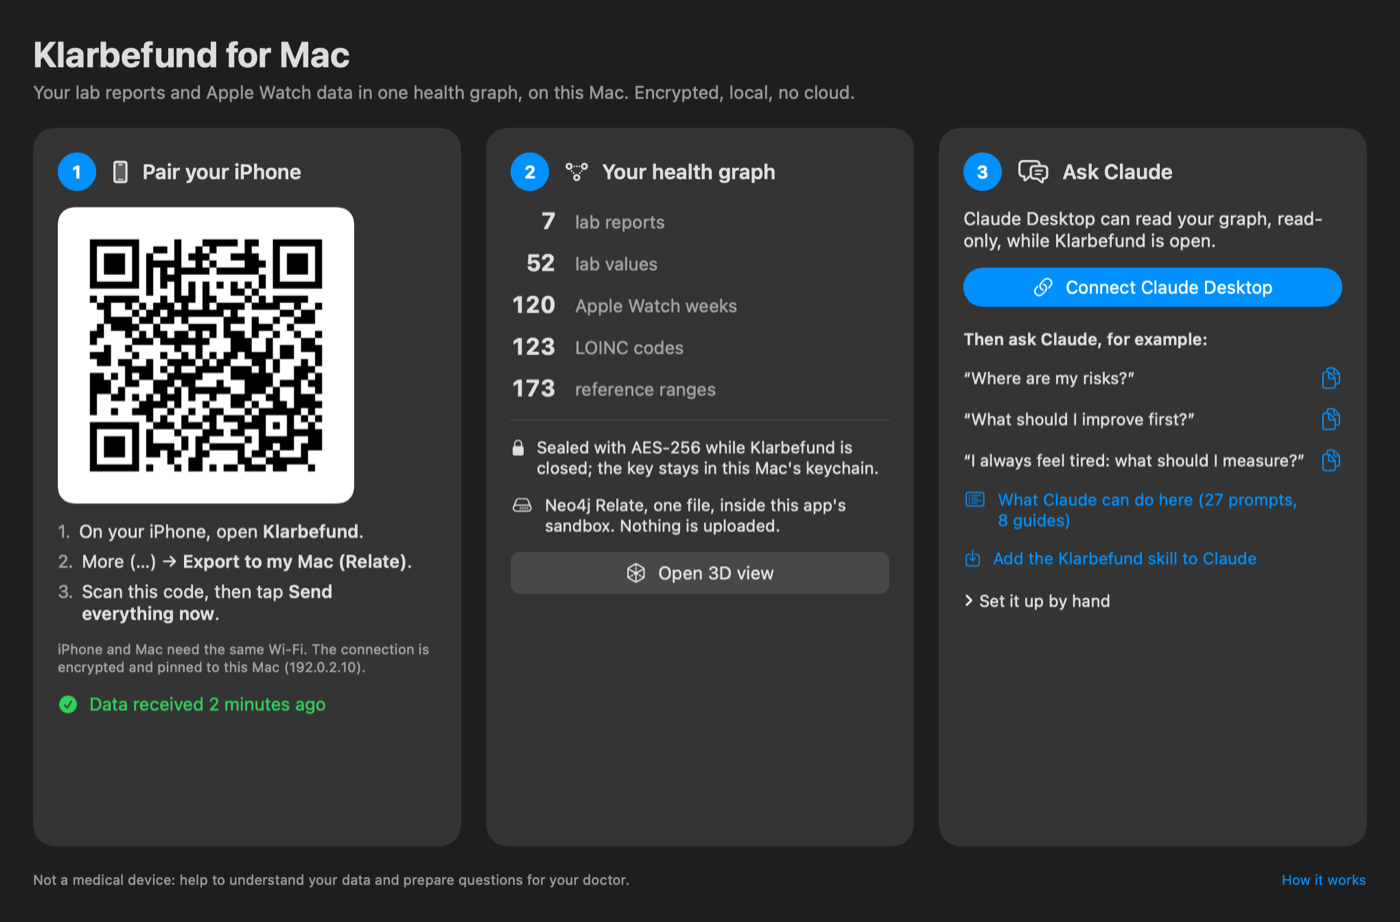
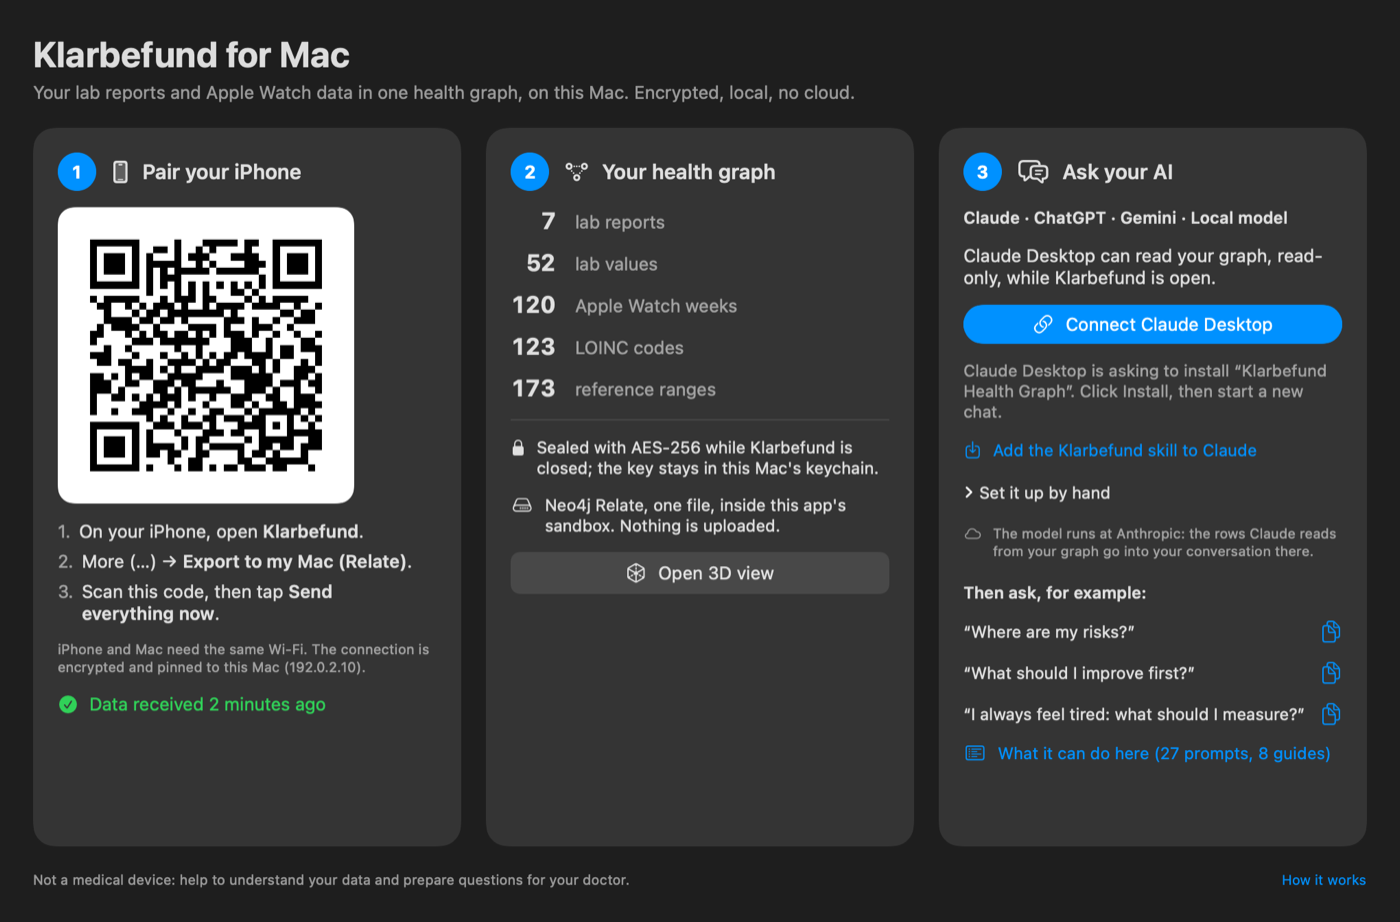
feat(mac): build 14, ask your AI: Claude, ChatGPT, Gemini or a local model
Step 3 is now "Ask your AI" with a choice of four. Each starts the same
read-only helper inside the app; the setup shows the helper's path filled
in, with a copy button:

- Claude: the one-click extension, as before
- ChatGPT: the ChatGPT app for Mac and Codex CLI share ~/.codex/config.toml;
  Settings -> MCP servers -> Add server -> STDIO, or codex mcp add
- Gemini: gemini mcp add -s user, started in a trusted folder (checked with
  Gemini CLI 0.66.0: Connected)
- Local model: Add to LM Studio (lmstudio://add_mcp, the server entry as
  base64 JSON), and a note that Ollama needs an MCP client in front of it

Under each setup the app says where the rows the model reads go: the
maker's cloud for Claude, ChatGPT and Gemini, nowhere for a local model.
Step 3 scrolls; numbered steps wrap. --screenshot takes --ai <client>.
Docs: MAC.md step 6, the README's Mac row, the window screenshot.

diff --git a/apps/mac/Klarbefund/ContentView.swift b/apps/mac/Klarbefund/ContentView.swift
@@ -5,12 +5,19 @@ import SwiftUI
 /// controls, so small buttons and links are drawn as plain images and text then.
 @MainActor var renderingForDocs = false
 
-/// One window, three steps: pair the iPhone, see the graph, connect Claude.
+/// One window, three steps: pair the iPhone, see the graph, connect an AI (Claude, ChatGPT, Gemini or a local model).
 struct ContentView: View {
   @ObservedObject var model: AppModel
   @State private var showManual = false
   @State private var showCapabilities = false
   @State private var skillMessage: String?
+  @State private var client: AIClient
+
+  init(model: AppModel, client: AIClient = .claude) {
+    self.model = model
+    _client = State(initialValue: client)
+  }
+  @State private var localMessage: String?
   @Environment(\.openWindow) private var openWindow
 
   var body: some View {
@@ -23,7 +30,7 @@ struct ContentView: View {
       HStack(alignment: .top, spacing: 18) {
         Step(number: 1, title: "Pair your iPhone", symbol: "iphone.gen3") { pairing }
         Step(number: 2, title: "Your health graph", symbol: "point.3.connected.trianglepath.dotted") { graph }
-        Step(number: 3, title: "Ask Claude", symbol: "bubble.left.and.text.bubble.right") { claude }
+        Step(number: 3, title: "Ask your AI", symbol: "bubble.left.and.text.bubble.right") { ai }
       }
       footer
     }
@@ -100,6 +107,98 @@ struct ContentView: View {
   }
 
   // ── 3 ──
+  private var setup: AISetup { AISetup(helper: ClaudeConnect.helper.path) }
+
+  /// Step 3 scrolls: ChatGPT's and Gemini's setups are taller than Claude's one button. ImageRenderer
+  /// draws no scroll view, so the docs render lays the content out directly.
+  @ViewBuilder private var ai: some View {
+    if renderingForDocs {
+      aiContent
+    } else {
+      ScrollView(.vertical) {
+        VStack(alignment: .leading, spacing: 12) { aiContent }.frame(maxWidth: .infinity, alignment: .leading)
+      }
+    }
+  }
+
+  @ViewBuilder private var aiContent: some View {
+    if renderingForDocs {  // ImageRenderer draws no segmented control
+      Text(AIClient.allCases.map(\.title).joined(separator: " · ")).font(.callout.weight(.semibold))
+    } else {
+      Picker("AI", selection: $client) {
+        ForEach(AIClient.allCases) { Text($0.title).tag($0) }
+      }
+      .pickerStyle(.segmented).labelsHidden()
+    }
+    switch client {
+    case .claude: claude
+    case .chatgpt: chatgpt
+    case .gemini: gemini
+    case .local: local
+    }
+    Label(client.privacy, systemImage: client == .local ? "lock.laptopcomputer" : "cloud")
+      .font(.caption).foregroundStyle(.secondary).fixedSize(horizontal: false, vertical: true)
+    Text("Then ask, for example:").font(.callout.weight(.semibold)).padding(.top, 4)
+    ForEach(MCPCatalog.prompts.filter { $0.group == .risks }.prefix(3), id: \.name) { Ask($0.ask) }
+    let catalog = Label(
+      "What it can do here (\(MCPCatalog.prompts.count) prompts, \(MCPCatalog.guides.count) guides)",
+      systemImage: "list.bullet.rectangle")
+    if renderingForDocs {
+      catalog.font(.callout).foregroundStyle(Color.accentColor)
+    } else {
+      Button { showCapabilities = true } label: { catalog }
+        .buttonStyle(.link).font(.callout)
+        .sheet(isPresented: $showCapabilities) { MCPCapabilitiesView() }
+    }
+  }
+
+  @ViewBuilder private var chatgpt: some View {
+    Text("ChatGPT for Mac and Codex CLI share one setup. ChatGPT in the browser cannot reach your Mac.")
+    Numbered(items: [
+      "ChatGPT → **Settings → MCP servers → Add server**.",
+      "Choose **STDIO**, name it **\(AISetup.serverName)**, command:",
+    ])
+    Code(setup.helper)
+    Text("Save, then Restart ChatGPT. Or in Terminal, for Codex CLI:").font(.callout)
+    Code(setup.codexCommand)
+    DisclosureGroup("In ~/.codex/config.toml") { Code(setup.codexToml) }.font(.callout)
+  }
+
+  @ViewBuilder private var gemini: some View {
+    Text("Gemini CLI, in Terminal:")
+    Code(setup.geminiCommand)
+    Numbered(items: [
+      "Start **gemini** in a folder you trust: in an untrusted folder Gemini CLI switches MCP servers off.",
+      "Type **/mcp**: \(AISetup.serverName) shows as connected.",
+    ])
+    DisclosureGroup("In ~/.gemini/settings.json") { Code(setup.mcpServersJson) }.font(.callout)
+  }
+
+  @ViewBuilder private var local: some View {
+    Text("LM Studio (0.3.17 or later) runs the model on this Mac. Pick a model that supports tool use.")
+    if renderingForDocs {
+      Label("Add to LM Studio", systemImage: "plus.app").frame(maxWidth: .infinity)
+        .padding(.vertical, 7).background(.quaternary, in: RoundedRectangle(cornerRadius: 7))
+    } else {
+      Button {
+        guard let link = setup.lmStudioLink, NSWorkspace.shared.urlForApplication(toOpen: link) != nil else {
+          localMessage = "LM Studio is not installed. Get it at lmstudio.ai, open it once, then click again."
+          return
+        }
+        localMessage = "LM Studio asks to add \(AISetup.serverName): confirm, then start a chat with a tool-use model."
+        NSWorkspace.shared.open(link)
+      } label: {
+        Label("Add to LM Studio", systemImage: "plus.app").frame(maxWidth: .infinity)
+      }
+      .controlSize(.large)
+    }
+    if let localMessage { Text(localMessage).font(.callout).foregroundStyle(.secondary) }
+    DisclosureGroup("By hand: LM Studio → Program → Install → Edit mcp.json") { Code(setup.mcpServersJson) }
+      .font(.callout)
+    Text("Ollama has no MCP support of its own: an MCP client in front of it takes the same JSON.")
+      .font(.caption).foregroundStyle(.secondary)
+  }
+
   @ViewBuilder private var claude: some View {
     Text("Claude Desktop can read your graph, read-only, while Klarbefund is open.")
     Button {
@@ -118,18 +217,6 @@ struct ContentView: View {
     }
     if let msg = model.claudeMessage {
       Text(msg).font(.callout).foregroundStyle(.secondary).textSelection(.enabled)
-    }
-    Text("Then ask Claude, for example:").font(.callout.weight(.semibold)).padding(.top, 4)
-    ForEach(MCPCatalog.prompts.filter { $0.group == .risks }.prefix(3), id: \.name) { Ask($0.ask) }
-    let catalog = Label(
-      "What Claude can do here (\(MCPCatalog.prompts.count) prompts, \(MCPCatalog.guides.count) guides)",
-      systemImage: "list.bullet.rectangle")
-    if renderingForDocs {
-      catalog.font(.callout).foregroundStyle(Color.accentColor)
-    } else {
-      Button { showCapabilities = true } label: { catalog }
-        .buttonStyle(.link).font(.callout)
-        .sheet(isPresented: $showCapabilities) { MCPCapabilitiesView() }
     }
     if renderingForDocs {
       Label("Add the Klarbefund skill to Claude", systemImage: "square.and.arrow.down")
@@ -192,7 +279,7 @@ private struct Numbered: View {
       ForEach(Array(items.enumerated()), id: \.offset) { i, s in
         HStack(alignment: .firstTextBaseline, spacing: 6) {
           Text("\(i + 1).").foregroundStyle(.secondary)
-          Text(LocalizedStringKey(s))
+          Text(LocalizedStringKey(s)).fixedSize(horizontal: false, vertical: true)  // wraps, never "…"
         }
       }
     }
@@ -206,6 +293,24 @@ private struct CountRow: View {
       Text(value.formatted()).font(.title2.bold().monospacedDigit()).gridColumnAlignment(.trailing)
       Text(label).foregroundStyle(.secondary)
     }
+  }
+}
+
+/// A command or config to copy: monospaced, selectable, with a copy button.
+private struct Code: View {
+  let text: String
+  init(_ text: String) { self.text = text }
+  var body: some View {
+    HStack(alignment: .top, spacing: 6) {
+      Text(text).font(.caption.monospaced()).textSelection(.enabled)
+        .fixedSize(horizontal: false, vertical: true)
+        .frame(maxWidth: .infinity, alignment: .leading)
+      if !renderingForDocs {
+        Button { copy(text) } label: { Image(systemName: "doc.on.doc") }
+          .buttonStyle(.borderless).help("Copy")
+      }
+    }
+    .padding(6).background(.quaternary, in: RoundedRectangle(cornerRadius: 6))
   }
 }
 

diff --git a/apps/mac/Shared/AIClients.swift b/apps/mac/Shared/AIClients.swift
@@ -1,0 +1,95 @@
+import Foundation
+
+/// The AI apps that can read the health graph through the bundled MCP helper, and how each is set up.
+///
+/// Every one of them starts the same helper on this Mac (stdio, read-only, except the answers it hands
+/// to the app's Inbox). What differs is where the model runs, and so where the rows it reads go:
+/// Claude, ChatGPT and Gemini run in their makers' clouds; a local model keeps everything on the Mac.
+///
+/// As of November 2026 (checked against the makers' docs):
+/// - ChatGPT: the desktop app and Codex CLI share `~/.codex/config.toml` (`[mcp_servers.<name>]`,
+///   `command`); the app adds a local server under Settings → MCP servers → Add server → STDIO.
+///   ChatGPT in the browser cannot reach a server on the Mac.
+/// - Gemini: Gemini CLI, `gemini mcp add -s user <name> <command>` into `~/.gemini/settings.json`.
+/// - Local: LM Studio (0.3.17 and later) is an MCP host and takes `lmstudio://add_mcp?name=…&config=…`
+///   with the server entry as base64 JSON; Ollama has no MCP support of its own.
+public enum AIClient: String, CaseIterable, Identifiable, Sendable {
+  case claude, chatgpt, gemini, local
+
+  public var id: String { rawValue }
+
+  public var title: String {
+    switch self {
+    case .claude: return "Claude"
+    case .chatgpt: return "ChatGPT"
+    case .gemini: return "Gemini"
+    case .local: return "Local model"
+    }
+  }
+
+  /// Where the rows the model reads end up: said plainly, next to every setup.
+  public var privacy: String {
+    switch self {
+    case .claude:
+      return "The model runs at Anthropic: the rows Claude reads from your graph go into your conversation there."
+    case .chatgpt:
+      return "The model runs at OpenAI: the rows ChatGPT reads from your graph go into your conversation there."
+    case .gemini:
+      return "The model runs at Google: the rows Gemini reads from your graph go into your conversation there."
+    case .local:
+      return "The model runs on this Mac: nothing from your graph leaves it."
+    }
+  }
+}
+
+/// The setup texts for one helper path. Pure, so they can be checked outside the app.
+public struct AISetup: Sendable {
+  public static let serverName = "klarbefund-health"
+  public let helper: String
+
+  public init(helper: String) { self.helper = helper }
+
+  /// A path in single quotes for zsh/bash, safe with spaces.
+  var quoted: String { "'" + helper.replacingOccurrences(of: "'", with: "'\\''") + "'" }
+
+  /// JSON string literal for the path.
+  var jsonPath: String {
+    let data = try? JSONSerialization.data(withJSONObject: [helper], options: [.withoutEscapingSlashes])
+    let array = data.flatMap { String(data: $0, encoding: .utf8) } ?? "[\"\(helper)\"]"
+    return String(array.dropFirst().dropLast())
+  }
+
+  // ── ChatGPT (desktop app and Codex CLI share one configuration) ──
+  public var codexCommand: String { "codex mcp add \(Self.serverName) -- \(quoted)" }
+  public var codexToml: String {
+    """
+    [mcp_servers.\(Self.serverName)]
+    command = \(jsonPath)
+    """
+  }
+
+  // ── Gemini CLI ──
+  public var geminiCommand: String { "gemini mcp add -s user \(Self.serverName) \(quoted)" }
+
+  /// The mcpServers block Claude Desktop, Gemini CLI, LM Studio and most other MCP clients read.
+  public var mcpServersJson: String {
+    """
+    {
+      "mcpServers": {
+        "\(Self.serverName)": {
+          "command": \(jsonPath)
+        }
+      }
+    }
+    """
+  }
+
+  // ── LM Studio ──
+  /// "Add to LM Studio": the server entry (without its name) as base64 JSON, as LM Studio's link generator makes it.
+  public var lmStudioLink: URL? {
+    let entry = (try? JSONSerialization.data(withJSONObject: ["command": helper], options: [.withoutEscapingSlashes])) ?? Data()
+    // "+", "/" and "=" in base64 are data, not query syntax: escaped, as LM Studio's own links send "=" as %3D.
+    let config = entry.base64EncodedString().addingPercentEncoding(withAllowedCharacters: .alphanumerics) ?? ""
+    return URL(string: "lmstudio://add_mcp?name=\(Self.serverName)&config=\(config)")
+  }
+}

diff --git a/apps/mac/Klarbefund/KlarbefundApp.swift b/apps/mac/Klarbefund/KlarbefundApp.swift
@@ -52,9 +52,11 @@ struct KlarbefundApp: App {
       if args.contains("--claude") {
         demo.claudeMessage = "Claude Desktop is asking to install “Klarbefund Health Graph”. Click Install, then start a new chat."
       }
+      // `--ai chatgpt|gemini|local`: step 3 with that AI's setup instead of Claude's.
+      let ai = args.firstIndex(of: "--ai").flatMap { $0 + 1 < args.count ? AIClient(rawValue: args[$0 + 1]) : nil } ?? .claude
       // `--capabilities`: the "What Claude can do here" sheet instead (no data at all).
       let screen = args.contains("--capabilities")
-        ? AnyView(MCPCapabilitiesView(scrolls: false)) : AnyView(ContentView(model: demo).frame(width: w, height: h))
+        ? AnyView(MCPCapabilitiesView(scrolls: false)) : AnyView(ContentView(model: demo, client: ai).frame(width: w, height: h))
       let view = screen
         .background(Color(nsColor: .windowBackgroundColor))
         .environment(\.colorScheme, args.contains("--light") ? .light : .dark)

diff --git a/docs/MAC.md b/docs/MAC.md
@@ -4,7 +4,7 @@ Klarbefund for Mac is the no-scripts way to keep your health graph on your Mac a
 
 > **Status, Nov 16, 2026:** Mac build 9 is in TestFlight. It opens your graph in 3D inside the app (*Open 3D view*), asks the validated anamnesis protocols (Life's Essential 8, FINDRISC, AUDIT-C, MEDAS-14, PHQ-2, tobacco, family history, statin months, diet and the plant-based follow-up), stores what a reading concluded (findings linked to the values they are about), and brings the Klarbefund skill for Claude. The Claude extension now carries the build number (1.0.9) and lists its seven tools. Both apps stay in TestFlight while in development and testing; neither is submitted to the App Store. The public TestFlight link offers the Mac build once Apple's Beta App Review passes (iPhone build 15 is already live there). Claude Desktop answers through the "Klarbefund Health Graph" extension while the app is open.
 
-![Klarbefund for Mac with fictional data: pair your iPhone, your health graph with Open 3D view, ask Claude with the Klarbefund skill](img/mac/klarbefund-mac.png)
+![Klarbefund for Mac with fictional data: pair your iPhone, your health graph with Open 3D view, ask your AI: Claude, ChatGPT, Gemini or a local model](img/mac/klarbefund-mac.png)
 
 ## For people
 
@@ -18,6 +18,12 @@ Klarbefund for Mac is the no-scripts way to keep your health graph on your Mac a
 
    These and 24 more are in Claude's **+** menu as prompts of the extension; **What Claude can do here** in step 3 lists them all, with the guides Claude can read. "My personal anamnesis, from my risk profile" takes the whole reading: your main risk, the questionnaires that matter for it (prefilled from your data, the rest asked), the scores, and the findings, stored in your graph once you confirm them. What the server offers and how it is secured: [MCP.md](MCP.md).
 5. **Add the skill (optional).** **Add the Klarbefund skill to Claude** in step 3 saves `klarbefund-anamnesis.zip`, the method without any data. In Claude: Customize → Skills → + → Upload a skill. Claude then takes the anamnesis the same way whenever your question fits, without picking a prompt.
+6. **Or another AI.** Step 3 is *Ask your AI*: Claude, ChatGPT, Gemini or a local model. Each starts the same helper inside Klarbefund for Mac (`/Applications/Klarbefund.app/Contents/Helpers/klarbefund-mcp`), read-only. The app shows each setup with the path filled in and a copy button:
+   - **ChatGPT:** the ChatGPT app for Mac and Codex CLI share one setup (`~/.codex/config.toml`). In ChatGPT: Settings → MCP servers → Add server → STDIO, name `klarbefund-health`, the helper as command; save, then restart. In Terminal: `codex mcp add klarbefund-health -- '<helper>'`. ChatGPT in the browser cannot reach a server on your Mac.
+   - **Gemini:** Gemini CLI, `gemini mcp add -s user klarbefund-health '<helper>'`, then start `gemini` in a folder you trust (in an untrusted folder it switches MCP servers off) and type `/mcp`. Checked with Gemini CLI 0.66.0: *klarbefund-health … Connected*.
+   - **Local model:** *Add to LM Studio* (LM Studio 0.3.17 or later) hands LM Studio the server entry; pick a model that supports tool use. The model then runs on your Mac and nothing from the graph leaves it. Ollama has no MCP support of its own; an MCP client in front of it takes the same `mcpServers` JSON.
+
+   Where the rows go depends on the AI, and step 3 says it under each setup: Claude, ChatGPT and Gemini run in their makers' clouds, so the rows the model reads go into your conversation there; a local model keeps everything on the Mac.
 
 **Updating.** TestFlight updates the app in `/Applications`; your graph is not inside the app and stays. Then:
 - Quit Klarbefund (⌘Q) and open it again. Klarbefund → About Klarbefund shows the build; step 3 lists the prompts (27 in build 9).

diff --git a/README.md b/README.md
@@ -57,7 +57,7 @@ The project runs on **your own devices**, with your own (or synthetic) health da
 |---|---|---|
 | 📱 **iPhone** (iOS 26) | Runs **Klarbefund**, which scans lab reports and reads Apple Health | Get it via **[TestFlight: testflight.apple.com/join/ssADSXX6](https://testflight.apple.com/join/ssADSXX6)** (QR code below). Build 15: "Export to my Mac" pairs with Klarbefund for Mac |
 | ⌚ **A wearable**: Apple Watch, **Oura Ring**, Garmin, Withings, Whoop, a smart scale … | Pulse, HRV, sleep and sleep stages, VO2 max, SpO₂, steps, weight | Anything that syncs into **Apple Health** works, since Klarbefund reads from Apple Health. Sleep stages and VO2 max need a device that records them (Apple Watch, Oura, Garmin …) |
-| 💻 **Mac** (macOS 14 or later) | Runs **Klarbefund for Mac**: the **Relate** graph (Neo4j's embedded graph DB), the receiver the phone pairs with by QR code, and the one-click connection to Claude Desktop | **No scripts:** install it from the same [TestFlight link](https://testflight.apple.com/join/ssADSXX6), see [docs/MAC.md](docs/MAC.md). Developers can still use the command-line receiver and the encrypted vault: [docs/INSTALL.md](docs/INSTALL.md) |
+| 💻 **Mac** (macOS 14 or later) | Runs **Klarbefund for Mac**: the **Relate** graph (Neo4j's embedded graph DB), the receiver the phone pairs with by QR code, the one-click connection to Claude Desktop, and the setup for ChatGPT, Gemini CLI or a local model in LM Studio | **No scripts:** install it from the same [TestFlight link](https://testflight.apple.com/join/ssADSXX6), see [docs/MAC.md](docs/MAC.md). Developers can still use the command-line receiver and the encrypted vault: [docs/INSTALL.md](docs/INSTALL.md) |
 | 📶 The **same Wi-Fi**, or a **USB cable** | The phone sends data straight to your Mac, encrypted, no cloud | Pinned TLS over Wi-Fi; no shared network (guest Wi-Fi, client isolation) → USB cable |
 | 📄 *Optional:* a few **paper lab reports** | Real-world test material for the scanner | Your data stays on your devices; nothing goes into this repo |
 
